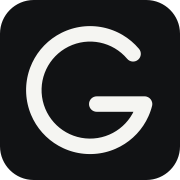
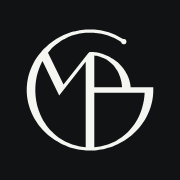
feat(marca): monograma GBM Didone (iteração 29) no site inteiro
Favicon, ícone do iPhone, topo, hero, rodapé, 404, imagem de
compartilhamento e logos em assets/logo passam a usar a marca final:
um contorno preenchido sobre o esqueleto Fibonacci (anel 233, bojo 144,
pesos 34/21/13). No hero, a pena traça o esqueleto (G, M, B) e a tinta
da marca cobre o traço. A fonte da marca e os arquivos da prensa de
couro (espelhado, PDFs de 100 mm, PNGs de 16 a 2048) ficam em
marca/oficial; as versões antigas saem do repositório.

diff --git a/index.html b/index.html
@@ -10,6 +10,7 @@
 <meta name="theme-color" content="#0e0f11" media="(prefers-color-scheme: dark)">
 <link rel="canonical" href="https://gbmtec.com.br/">
 <link rel="icon" href="favicon.svg" type="image/svg+xml">
+<link rel="apple-touch-icon" href="apple-touch-icon.png">
 
 <meta property="og:type" content="website">
 <meta property="og:locale" content="pt_BR">
@@ -42,11 +43,7 @@
 <body>
 
 <svg width="0" height="0" style="position:absolute" aria-hidden="true" focusable="false">
-  <symbol id="gbm" viewBox="-4 -4 212.96 108">
-    <path d="M89.4 19.22A50 50 0 1 0 98.4 62.56L56 62.56"/>
-    <path d="M98.4 28L98.4 100M98.4 28H115.68A17.28 17.28 0 0 1 115.68 62.56H98.4M98.4 62.56H114.24A18.72 18.72 0 0 1 114.24 100H98.4"/>
-    <path d="M143.04 100L143.04 28L174 82.72L204.96 28L204.96 100"/>
-  </symbol>
+  <symbol id="gbm" viewBox="0 0 512 512"><path d="M506 245.5L506 256C506 261.78 505.77 267.56 505.32 273.31C504.87 279.07 504.2 284.81 503.3 290.51C502.41 296.21 501.29 301.88 499.96 307.49C498.63 313.1 497.09 318.65 495.33 324.13C493.58 329.61 491.62 335.02 489.47 340.34C487.31 345.66 484.96 350.89 482.43 356.03C479.89 361.16 477.17 366.19 474.27 371.11C471.38 376.03 468.31 380.84 465.08 385.53C461.85 390.21 458.46 394.78 454.92 399.21C451.39 403.65 447.7 407.95 443.88 412.11C440.06 416.28 436.11 420.31 432.03 424.2C427.95 428.08 423.75 431.83 419.44 435.42C415.13 439.02 410.71 442.47 406.19 445.77C401.67 449.07 397.04 452.21 392.33 455.21C387.62 458.2 382.82 461.04 377.94 463.72C373.05 466.4 368.09 468.92 363.06 471.28C358.03 473.63 352.92 475.83 347.76 477.86C342.59 479.89 337.37 481.75 332.09 483.45C326.81 485.14 321.48 486.66 316.11 488.01C310.73 489.35 305.32 490.52 299.87 491.51C294.42 492.5 288.95 493.31 283.45 493.94C277.95 494.56 272.42 495 266.9 495.25C261.37 495.5 255.83 495.56 250.29 495.43C244.76 495.3 239.23 494.98 233.72 494.47C228.21 493.96 222.71 493.27 217.25 492.39C211.78 491.51 206.34 490.45 200.95 489.22C195.55 487.98 190.19 486.57 184.88 484.98C179.57 483.4 174.31 481.64 169.11 479.72C163.9 477.79 158.76 475.7 153.68 473.44C148.61 471.18 143.6 468.76 138.67 466.18C133.74 463.6 128.88 460.87 124.12 457.97C119.35 455.07 114.67 452.02 110.08 448.82C105.5 445.62 101.01 442.26 96.63 438.76C92.26 435.25 87.98 431.6 83.83 427.8C79.68 424 75.64 420.06 71.74 415.98C67.84 411.9 64.07 407.69 60.44 403.33C56.81 398.98 53.33 394.5 50 389.89C46.67 385.28 43.5 380.55 40.5 375.7C37.49 370.85 34.66 365.88 32.01 360.81C29.36 355.75 26.89 350.57 24.61 345.31C22.33 340.04 20.25 334.68 18.37 329.25C16.49 323.82 14.81 318.3 13.35 312.73C11.89 307.16 10.63 301.53 9.6 295.85C8.57 290.18 7.75 284.46 7.16 278.71C6.57 272.97 6.21 267.2 6.07 261.42C5.93 255.64 6.01 249.86 6.32 244.09C6.63 238.33 7.16 232.57 7.92 226.85C8.68 221.12 9.66 215.43 10.85 209.79C12.05 204.15 13.46 198.56 15.08 193.03C16.71 187.51 18.54 182.05 20.57 176.68C22.6 171.3 24.83 166.01 27.25 160.82C29.67 155.62 32.28 150.52 35.06 145.54C37.85 140.55 40.81 135.67 43.94 130.9C47.07 126.14 50.36 121.5 53.8 116.99C57.25 112.47 60.84 108.09 64.57 103.83C68.31 99.58 72.18 95.47 76.18 91.49C80.18 87.52 84.31 83.68 88.55 79.99C92.79 76.31 97.14 72.76 101.6 69.37C106.06 65.98 110.62 62.73 115.27 59.65C119.93 56.56 124.68 53.62 129.51 50.84C134.34 48.07 139.25 45.44 144.24 42.99C149.23 40.53 154.29 38.23 159.41 36.09C164.54 33.96 169.73 31.99 174.97 30.19C180.22 28.39 185.52 26.76 190.86 25.31C196.21 23.85 201.6 22.57 207.03 21.47C212.45 20.37 217.91 19.44 223.4 18.7C228.89 17.96 234.4 17.41 239.92 17.04C245.44 16.67 250.98 16.49 256.51 16.5C262.05 16.51 267.58 16.72 273.1 17.11C278.62 17.51 284.13 18.09 289.61 18.87C295.09 19.65 300.54 20.61 305.96 21.77C311.37 22.92 316.74 24.26 322.06 25.79C327.38 27.32 332.65 29.03 337.85 30.92C343.05 32.81 348.19 34.89 353.25 37.13C358.31 39.38 363.29 41.8 368.18 44.4C373.07 46.99 377.87 49.75 382.57 52.67C383.26 53.11 383.99 53.47 384.76 53.77C385.52 54.06 386.31 54.28 387.11 54.43C387.92 54.58 388.73 54.65 389.55 54.64C391.23 54.62 392.92 55.02 394.41 55.78C395.91 56.55 397.22 57.68 398.2 59.05C399.17 60.42 399.81 62.03 400.04 63.69C400.27 65.36 400.1 67.08 399.53 68.66C398.97 70.25 398.02 71.69 396.78 72.84C395.55 73.98 394.04 74.82 392.42 75.26C390.8 75.71 389.07 75.76 387.42 75.4C385.78 75.04 384.22 74.29 382.93 73.21C381.64 72.14 380.61 70.75 379.96 69.19C379.61 68.36 379.18 67.57 378.67 66.83C378.16 66.09 377.57 65.41 376.92 64.79C376.27 64.17 375.55 63.62 374.79 63.15C370.3 60.38 365.71 57.78 361.04 55.33C356.37 52.89 351.62 50.61 346.79 48.49C341.96 46.38 337.06 44.44 332.1 42.67C327.13 40.89 322.11 39.3 317.03 37.88C311.95 36.46 306.83 35.21 301.67 34.15C296.51 33.09 291.31 32.21 286.08 31.51C280.86 30.81 275.61 30.29 270.35 29.96C265.09 29.62 259.82 29.47 254.55 29.5C249.28 29.54 244.01 29.76 238.75 30.16C233.5 30.57 228.26 31.16 223.05 31.94C217.84 32.72 212.65 33.7 207.51 34.86C202.37 36.02 197.28 37.37 192.24 38.9C187.21 40.44 182.23 42.17 177.33 44.07C172.43 45.98 167.6 48.07 162.86 50.35C158.12 52.62 153.47 55.07 148.93 57.69C144.38 60.31 139.94 63.1 135.61 66.05C131.29 69 127.08 72.11 123 75.37C118.92 78.63 114.97 82.05 111.15 85.59C107.34 89.14 103.67 92.83 100.14 96.64C96.61 100.45 93.22 104.38 89.99 108.43L151.31 234.64L248.91 110.5C249.53 109.71 250.24 108.99 251.03 108.37C251.82 107.74 252.67 107.21 253.58 106.78C254.49 106.35 255.45 106.03 256.43 105.82C257.41 105.61 258.42 105.52 259.43 105.54C262.81 105.62 266.18 105.8 269.55 106.1C272.92 106.4 276.28 106.81 279.62 107.32C282.96 107.84 286.29 108.46 289.6 109.18C292.9 109.9 296.19 110.72 299.45 111.65C302.71 112.57 305.94 113.59 309.14 114.71C312.35 115.82 315.52 117.04 318.66 118.34C321.8 119.65 324.9 121.05 327.97 122.54C331.03 124.04 334.06 125.62 337.04 127.3C340.02 128.98 342.96 130.74 345.85 132.6C348.74 134.46 351.58 136.41 354.36 138.45C357.14 140.49 359.87 142.61 362.54 144.83C365.21 147.05 367.81 149.35 370.35 151.75C372.88 154.14 375.34 156.62 377.73 159.19C380.12 161.76 382.42 164.41 384.64 167.14C386.86 169.88 389 172.7 391.03 175.59C393.07 178.49 395.01 181.47 396.84 184.51C398.68 187.56 400.4 190.69 402.01 193.87C403.63 197.06 405.12 200.32 406.49 203.63C407.87 206.94 409.12 210.31 410.23 213.73C411.35 217.15 412.34 220.62 413.18 224.12C414.03 227.63 414.74 231.17 415.31 234.74C415.88 238.3 416.31 241.9 416.59 245.5ZM68.23 141.43C65.86 145.83 63.64 150.31 61.57 154.84C59.51 159.38 57.59 163.97 55.83 168.61C54.06 173.25 52.45 177.94 50.99 182.67C49.52 187.4 48.21 192.16 47.04 196.95C45.87 201.75 44.85 206.57 43.98 211.41C43.1 216.26 42.37 221.12 41.79 226C41.2 230.87 40.76 235.77 40.47 240.66C40.17 245.56 40.01 250.46 40 255.37C39.99 260.27 40.12 265.18 40.39 270.08C40.67 274.98 41.08 279.87 41.64 284.75C42.2 289.63 42.91 294.49 43.76 299.34C44.61 304.19 45.6 309.01 46.74 313.81C47.88 318.61 49.17 323.38 50.61 328.11C52.05 332.85 53.64 337.54 55.38 342.19C57.11 346.84 59 351.45 61.04 355.99C63.08 360.54 65.28 365.02 67.62 369.44C69.96 373.86 72.46 378.2 75.1 382.47C77.75 386.73 80.55 390.92 83.49 395C86.44 399.09 89.53 403.08 92.76 406.97C96 410.85 99.38 414.63 102.9 418.28C106.41 421.94 110.07 425.47 113.85 428.87C117.63 432.27 121.55 435.54 125.58 438.66C129.61 441.78 133.77 444.76 138.03 447.58C142.29 450.4 146.66 453.06 151.13 455.57C155.6 458.07 160.16 460.41 164.81 462.58C169.46 464.74 174.19 466.74 178.99 468.56C183.79 470.39 188.66 472.03 193.58 473.5C198.5 474.97 203.48 476.26 208.5 477.36C213.52 478.47 218.58 479.4 223.67 480.15C228.76 480.9 233.87 481.47 239 481.86L239 144.14L134.27 277.36ZM273 266.5L273 481.86C278.19 481.46 283.36 480.89 288.51 480.12C293.65 479.36 298.77 478.42 303.85 477.29C308.92 476.16 313.96 474.84 318.93 473.35C323.91 471.85 328.83 470.17 333.68 468.31C338.53 466.45 343.31 464.41 348 462.2C352.69 459.98 357.3 457.6 361.8 455.04C366.31 452.49 370.71 449.77 375.01 446.89C379.3 444.01 383.48 440.97 387.54 437.79C391.6 434.6 395.53 431.27 399.33 427.8C403.13 424.34 406.8 420.73 410.32 417.01C413.85 413.28 417.23 409.43 420.47 405.48C423.7 401.52 426.79 397.45 429.73 393.29C432.66 389.13 435.45 384.87 438.08 380.54C440.71 376.2 443.19 371.77 445.51 367.28C447.83 362.79 450 358.23 452.01 353.62C454.02 349 455.87 344.32 457.58 339.6C459.28 334.88 460.82 330.12 462.22 325.31C463.62 320.51 464.86 315.67 465.95 310.81C467.05 305.94 467.99 301.05 468.78 296.14C469.58 291.23 470.22 286.29 470.72 281.35C471.22 276.41 471.58 271.46 471.78 266.5ZM273 119.57L273 245.5L382.67 245.5C382.49 242.62 382.24 239.73 381.91 236.85C381.58 233.98 381.17 231.1 380.68 228.23C380.19 225.37 379.63 222.51 378.98 219.66C378.33 216.81 377.61 213.97 376.79 211.15C375.98 208.33 375.08 205.52 374.09 202.73C373.1 199.95 372.03 197.19 370.86 194.45C369.69 191.71 368.43 189.01 367.08 186.34C365.73 183.67 364.28 181.03 362.74 178.44C361.2 175.86 359.56 173.31 357.84 170.82C356.11 168.33 354.28 165.9 352.37 163.53C350.45 161.16 348.44 158.86 346.34 156.62C344.25 154.39 342.06 152.24 339.79 150.16C337.51 148.09 335.16 146.09 332.72 144.19C330.29 142.29 327.77 140.49 325.19 138.78C322.61 137.06 319.95 135.45 317.23 133.95C314.52 132.44 311.74 131.04 308.9 129.74C306.07 128.45 303.19 127.26 300.26 126.19C297.33 125.12 294.36 124.16 291.35 123.31C288.35 122.46 285.31 121.73 282.25 121.1C279.19 120.48 276.1 119.97 273 119.57Z"/></symbol>
   <symbol id="seta" viewBox="0 0 16 16"><path d="M4 12L12 4M5.5 4H12V10.5"/></symbol>
   <symbol id="baixo" viewBox="0 0 16 16"><path d="M8 2.5V13M3.5 8.5L8 13L12.5 8.5"/></symbol>
 </svg>
@@ -81,10 +78,13 @@
           <a class="cel" href="#no-ar">Ver o que está no ar<svg class="ico" aria-hidden="true"><use href="#baixo"/></svg></a>
         </div>
       </div>
-      <svg class="hero__marca" viewBox="-4 -4 212.96 108" aria-hidden="true" focusable="false">
-      <path pathLength="1" d="M89.4 19.22A50 50 0 1 0 98.4 62.56L56 62.56"/>
-      <path pathLength="1" d="M98.4 28L98.4 100M98.4 28H115.68A17.28 17.28 0 0 1 115.68 62.56H98.4M98.4 62.56H114.24A18.72 18.72 0 0 1 114.24 100H98.4"/>
-      <path pathLength="1" d="M143.04 100L143.04 28L174 82.72L204.96 28L204.96 100"/>
+      <svg class="hero__marca" viewBox="0 0 512 512" aria-hidden="true" focusable="false">
+        <g class="hero__traco">
+          <path pathLength="1" d="M389.64 65.14A233 233 0 1 0 489 256H256"/>
+          <path pathLength="1" d="M72.83 112L142.79 256L256 112V489"/>
+          <path pathLength="1" d="M256 112A144 144 0 0 1 400 256"/>
+        </g>
+        <use class="hero__tinta" href="#gbm"/>
       </svg>
     </div>
   </section>

diff --git a/404.html b/404.html
@@ -10,7 +10,7 @@
 :root{--fundo:#f5f5f2;--tinta:#111214}
 @media (prefers-color-scheme:dark){:root{--fundo:#0e0f11;--tinta:#f2f2ee}}
 body{margin:0;min-height:100svh;display:grid;place-content:center;gap:20px;padding:24px;background:var(--fundo);color:var(--tinta);font:400 1.05rem/1.6 "Hanken Grotesk",system-ui,sans-serif;text-align:center}
-svg{width:140px;height:auto;margin:0 auto;fill:none;stroke:currentColor;stroke-width:3.4;stroke-linecap:round;stroke-linejoin:round}
+svg{width:120px;height:120px;margin:0 auto;fill:currentColor}
 h1{margin:0;font:300 clamp(1.6rem,5vw,2.4rem)/1.1 "Josefin Sans","Century Gothic",system-ui,sans-serif;letter-spacing:.06em;text-transform:uppercase}
 a{display:inline-block;justify-self:center;padding:16px 26px;border:1px solid var(--tinta);color:inherit;font:500 .8rem/1 "Josefin Sans","Century Gothic",system-ui,sans-serif;letter-spacing:.18em;text-transform:uppercase;text-decoration:none}
 a:hover{background:var(--tinta);color:var(--fundo)}
@@ -18,7 +18,7 @@ a:focus-visible{outline:2px solid var(--tinta);outline-offset:3px}
 </style>
 </head>
 <body>
-<svg viewBox="-4 -4 212.96 108" aria-hidden="true"><path d="M89.4 19.22A50 50 0 1 0 98.4 62.56L56 62.56"/><path d="M98.4 28L98.4 100M98.4 28H115.68A17.28 17.28 0 0 1 115.68 62.56H98.4M98.4 62.56H114.24A18.72 18.72 0 0 1 114.24 100H98.4"/><path d="M143.04 100L143.04 28L174 82.72L204.96 28L204.96 100"/></svg>
+<svg viewBox="0 0 512 512" aria-hidden="true"><path d="M506 245.5L506 256C506 261.78 505.77 267.56 505.32 273.31C504.87 279.07 504.2 284.81 503.3 290.51C502.41 296.21 501.29 301.88 499.96 307.49C498.63 313.1 497.09 318.65 495.33 324.13C493.58 329.61 491.62 335.02 489.47 340.34C487.31 345.66 484.96 350.89 482.43 356.03C479.89 361.16 477.17 366.19 474.27 371.11C471.38 376.03 468.31 380.84 465.08 385.53C461.85 390.21 458.46 394.78 454.92 399.21C451.39 403.65 447.7 407.95 443.88 412.11C440.06 416.28 436.11 420.31 432.03 424.2C427.95 428.08 423.75 431.83 419.44 435.42C415.13 439.02 410.71 442.47 406.19 445.77C401.67 449.07 397.04 452.21 392.33 455.21C387.62 458.2 382.82 461.04 377.94 463.72C373.05 466.4 368.09 468.92 363.06 471.28C358.03 473.63 352.92 475.83 347.76 477.86C342.59 479.89 337.37 481.75 332.09 483.45C326.81 485.14 321.48 486.66 316.11 488.01C310.73 489.35 305.32 490.52 299.87 491.51C294.42 492.5 288.95 493.31 283.45 493.94C277.95 494.56 272.42 495 266.9 495.25C261.37 495.5 255.83 495.56 250.29 495.43C244.76 495.3 239.23 494.98 233.72 494.47C228.21 493.96 222.71 493.27 217.25 492.39C211.78 491.51 206.34 490.45 200.95 489.22C195.55 487.98 190.19 486.57 184.88 484.98C179.57 483.4 174.31 481.64 169.11 479.72C163.9 477.79 158.76 475.7 153.68 473.44C148.61 471.18 143.6 468.76 138.67 466.18C133.74 463.6 128.88 460.87 124.12 457.97C119.35 455.07 114.67 452.02 110.08 448.82C105.5 445.62 101.01 442.26 96.63 438.76C92.26 435.25 87.98 431.6 83.83 427.8C79.68 424 75.64 420.06 71.74 415.98C67.84 411.9 64.07 407.69 60.44 403.33C56.81 398.98 53.33 394.5 50 389.89C46.67 385.28 43.5 380.55 40.5 375.7C37.49 370.85 34.66 365.88 32.01 360.81C29.36 355.75 26.89 350.57 24.61 345.31C22.33 340.04 20.25 334.68 18.37 329.25C16.49 323.82 14.81 318.3 13.35 312.73C11.89 307.16 10.63 301.53 9.6 295.85C8.57 290.18 7.75 284.46 7.16 278.71C6.57 272.97 6.21 267.2 6.07 261.42C5.93 255.64 6.01 249.86 6.32 244.09C6.63 238.33 7.16 232.57 7.92 226.85C8.68 221.12 9.66 215.43 10.85 209.79C12.05 204.15 13.46 198.56 15.08 193.03C16.71 187.51 18.54 182.05 20.57 176.68C22.6 171.3 24.83 166.01 27.25 160.82C29.67 155.62 32.28 150.52 35.06 145.54C37.85 140.55 40.81 135.67 43.94 130.9C47.07 126.14 50.36 121.5 53.8 116.99C57.25 112.47 60.84 108.09 64.57 103.83C68.31 99.58 72.18 95.47 76.18 91.49C80.18 87.52 84.31 83.68 88.55 79.99C92.79 76.31 97.14 72.76 101.6 69.37C106.06 65.98 110.62 62.73 115.27 59.65C119.93 56.56 124.68 53.62 129.51 50.84C134.34 48.07 139.25 45.44 144.24 42.99C149.23 40.53 154.29 38.23 159.41 36.09C164.54 33.96 169.73 31.99 174.97 30.19C180.22 28.39 185.52 26.76 190.86 25.31C196.21 23.85 201.6 22.57 207.03 21.47C212.45 20.37 217.91 19.44 223.4 18.7C228.89 17.96 234.4 17.41 239.92 17.04C245.44 16.67 250.98 16.49 256.51 16.5C262.05 16.51 267.58 16.72 273.1 17.11C278.62 17.51 284.13 18.09 289.61 18.87C295.09 19.65 300.54 20.61 305.96 21.77C311.37 22.92 316.74 24.26 322.06 25.79C327.38 27.32 332.65 29.03 337.85 30.92C343.05 32.81 348.19 34.89 353.25 37.13C358.31 39.38 363.29 41.8 368.18 44.4C373.07 46.99 377.87 49.75 382.57 52.67C383.26 53.11 383.99 53.47 384.76 53.77C385.52 54.06 386.31 54.28 387.11 54.43C387.92 54.58 388.73 54.65 389.55 54.64C391.23 54.62 392.92 55.02 394.41 55.78C395.91 56.55 397.22 57.68 398.2 59.05C399.17 60.42 399.81 62.03 400.04 63.69C400.27 65.36 400.1 67.08 399.53 68.66C398.97 70.25 398.02 71.69 396.78 72.84C395.55 73.98 394.04 74.82 392.42 75.26C390.8 75.71 389.07 75.76 387.42 75.4C385.78 75.04 384.22 74.29 382.93 73.21C381.64 72.14 380.61 70.75 379.96 69.19C379.61 68.36 379.18 67.57 378.67 66.83C378.16 66.09 377.57 65.41 376.92 64.79C376.27 64.17 375.55 63.62 374.79 63.15C370.3 60.38 365.71 57.78 361.04 55.33C356.37 52.89 351.62 50.61 346.79 48.49C341.96 46.38 337.06 44.44 332.1 42.67C327.13 40.89 322.11 39.3 317.03 37.88C311.95 36.46 306.83 35.21 301.67 34.15C296.51 33.09 291.31 32.21 286.08 31.51C280.86 30.81 275.61 30.29 270.35 29.96C265.09 29.62 259.82 29.47 254.55 29.5C249.28 29.54 244.01 29.76 238.75 30.16C233.5 30.57 228.26 31.16 223.05 31.94C217.84 32.72 212.65 33.7 207.51 34.86C202.37 36.02 197.28 37.37 192.24 38.9C187.21 40.44 182.23 42.17 177.33 44.07C172.43 45.98 167.6 48.07 162.86 50.35C158.12 52.62 153.47 55.07 148.93 57.69C144.38 60.31 139.94 63.1 135.61 66.05C131.29 69 127.08 72.11 123 75.37C118.92 78.63 114.97 82.05 111.15 85.59C107.34 89.14 103.67 92.83 100.14 96.64C96.61 100.45 93.22 104.38 89.99 108.43L151.31 234.64L248.91 110.5C249.53 109.71 250.24 108.99 251.03 108.37C251.82 107.74 252.67 107.21 253.58 106.78C254.49 106.35 255.45 106.03 256.43 105.82C257.41 105.61 258.42 105.52 259.43 105.54C262.81 105.62 266.18 105.8 269.55 106.1C272.92 106.4 276.28 106.81 279.62 107.32C282.96 107.84 286.29 108.46 289.6 109.18C292.9 109.9 296.19 110.72 299.45 111.65C302.71 112.57 305.94 113.59 309.14 114.71C312.35 115.82 315.52 117.04 318.66 118.34C321.8 119.65 324.9 121.05 327.97 122.54C331.03 124.04 334.06 125.62 337.04 127.3C340.02 128.98 342.96 130.74 345.85 132.6C348.74 134.46 351.58 136.41 354.36 138.45C357.14 140.49 359.87 142.61 362.54 144.83C365.21 147.05 367.81 149.35 370.35 151.75C372.88 154.14 375.34 156.62 377.73 159.19C380.12 161.76 382.42 164.41 384.64 167.14C386.86 169.88 389 172.7 391.03 175.59C393.07 178.49 395.01 181.47 396.84 184.51C398.68 187.56 400.4 190.69 402.01 193.87C403.63 197.06 405.12 200.32 406.49 203.63C407.87 206.94 409.12 210.31 410.23 213.73C411.35 217.15 412.34 220.62 413.18 224.12C414.03 227.63 414.74 231.17 415.31 234.74C415.88 238.3 416.31 241.9 416.59 245.5ZM68.23 141.43C65.86 145.83 63.64 150.31 61.57 154.84C59.51 159.38 57.59 163.97 55.83 168.61C54.06 173.25 52.45 177.94 50.99 182.67C49.52 187.4 48.21 192.16 47.04 196.95C45.87 201.75 44.85 206.57 43.98 211.41C43.1 216.26 42.37 221.12 41.79 226C41.2 230.87 40.76 235.77 40.47 240.66C40.17 245.56 40.01 250.46 40 255.37C39.99 260.27 40.12 265.18 40.39 270.08C40.67 274.98 41.08 279.87 41.64 284.75C42.2 289.63 42.91 294.49 43.76 299.34C44.61 304.19 45.6 309.01 46.74 313.81C47.88 318.61 49.17 323.38 50.61 328.11C52.05 332.85 53.64 337.54 55.38 342.19C57.11 346.84 59 351.45 61.04 355.99C63.08 360.54 65.28 365.02 67.62 369.44C69.96 373.86 72.46 378.2 75.1 382.47C77.75 386.73 80.55 390.92 83.49 395C86.44 399.09 89.53 403.08 92.76 406.97C96 410.85 99.38 414.63 102.9 418.28C106.41 421.94 110.07 425.47 113.85 428.87C117.63 432.27 121.55 435.54 125.58 438.66C129.61 441.78 133.77 444.76 138.03 447.58C142.29 450.4 146.66 453.06 151.13 455.57C155.6 458.07 160.16 460.41 164.81 462.58C169.46 464.74 174.19 466.74 178.99 468.56C183.79 470.39 188.66 472.03 193.58 473.5C198.5 474.97 203.48 476.26 208.5 477.36C213.52 478.47 218.58 479.4 223.67 480.15C228.76 480.9 233.87 481.47 239 481.86L239 144.14L134.27 277.36ZM273 266.5L273 481.86C278.19 481.46 283.36 480.89 288.51 480.12C293.65 479.36 298.77 478.42 303.85 477.29C308.92 476.16 313.96 474.84 318.93 473.35C323.91 471.85 328.83 470.17 333.68 468.31C338.53 466.45 343.31 464.41 348 462.2C352.69 459.98 357.3 457.6 361.8 455.04C366.31 452.49 370.71 449.77 375.01 446.89C379.3 444.01 383.48 440.97 387.54 437.79C391.6 434.6 395.53 431.27 399.33 427.8C403.13 424.34 406.8 420.73 410.32 417.01C413.85 413.28 417.23 409.43 420.47 405.48C423.7 401.52 426.79 397.45 429.73 393.29C432.66 389.13 435.45 384.87 438.08 380.54C440.71 376.2 443.19 371.77 445.51 367.28C447.83 362.79 450 358.23 452.01 353.62C454.02 349 455.87 344.32 457.58 339.6C459.28 334.88 460.82 330.12 462.22 325.31C463.62 320.51 464.86 315.67 465.95 310.81C467.05 305.94 467.99 301.05 468.78 296.14C469.58 291.23 470.22 286.29 470.72 281.35C471.22 276.41 471.58 271.46 471.78 266.5ZM273 119.57L273 245.5L382.67 245.5C382.49 242.62 382.24 239.73 381.91 236.85C381.58 233.98 381.17 231.1 380.68 228.23C380.19 225.37 379.63 222.51 378.98 219.66C378.33 216.81 377.61 213.97 376.79 211.15C375.98 208.33 375.08 205.52 374.09 202.73C373.1 199.95 372.03 197.19 370.86 194.45C369.69 191.71 368.43 189.01 367.08 186.34C365.73 183.67 364.28 181.03 362.74 178.44C361.2 175.86 359.56 173.31 357.84 170.82C356.11 168.33 354.28 165.9 352.37 163.53C350.45 161.16 348.44 158.86 346.34 156.62C344.25 154.39 342.06 152.24 339.79 150.16C337.51 148.09 335.16 146.09 332.72 144.19C330.29 142.29 327.77 140.49 325.19 138.78C322.61 137.06 319.95 135.45 317.23 133.95C314.52 132.44 311.74 131.04 308.9 129.74C306.07 128.45 303.19 127.26 300.26 126.19C297.33 125.12 294.36 124.16 291.35 123.31C288.35 122.46 285.31 121.73 282.25 121.1C279.19 120.48 276.1 119.97 273 119.57Z"/></svg>
 <h1>Essa página não está no ar.</h1>
 <p>O endereço pode ter mudado ou nunca ter existido.</p>
 <a href="/">Voltar ao início</a>

diff --git a/assets/css/site.css b/assets/css/site.css
@@ -61,7 +61,7 @@ ul,ol{padding:0;list-style:none}
 .cel--cheia{background:var(--tinta);color:var(--fundo)}
 .cel--cheia:hover{background:var(--fundo);color:var(--tinta)}
 .ico{width:14px;height:14px;fill:none;stroke:currentColor;stroke-width:1.5;stroke-linecap:square;flex:none}
-.marca{width:71px;height:36px;fill:none;stroke:currentColor;stroke-width:4.2;stroke-linecap:round;stroke-linejoin:round;stroke-miterlimit:3}
+.marca{width:40px;height:40px;fill:currentColor}
 
 /* Topo */
 .topo{position:sticky;top:0;z-index:20;background:var(--fundo);border-bottom:1px solid var(--tinta)}
@@ -78,7 +78,8 @@ ul,ol{padding:0;list-style:none}
 .hero{position:relative;overflow:hidden;padding:clamp(28px,4.5vh,56px) 0 clamp(28px,4vh,48px)}
 .hero__grade{position:relative;max-width:calc(var(--max) + var(--gut)*2);margin:0 auto;padding:0 var(--gut)}
 .hero__texto{position:relative;z-index:1}
-.hero__marca{width:min(64vw,300px);height:auto;margin-top:clamp(28px,5vw,40px);fill:none;stroke:var(--tinta);stroke-width:.8;stroke-linecap:butt;stroke-linejoin:round}
+.hero__marca{display:block;width:min(34vw,200px);height:auto;margin-top:clamp(28px,5vw,40px);fill:var(--tinta)}
+.hero__traco{display:none;fill:none;stroke:var(--tinta);stroke-width:13;stroke-linecap:round;stroke-linejoin:round}
 h1{
   max-width:11em;font:300 clamp(2.5rem,8.6vw,6rem)/1.03 var(--f-titulo);
   letter-spacing:.03em;text-transform:uppercase;text-wrap:balance;
@@ -88,7 +89,7 @@ h1{
 @media (min-width:1100px){
   .hero__grade{display:grid;grid-template-columns:minmax(0,1fr) min(32vw,440px);gap:56px;align-items:center}
   h1{font-size:clamp(3rem,4.8vw,4.5rem)}
-  .hero__marca{width:100%;margin-top:0;stroke-width:.7}
+  .hero__marca{width:min(100%,360px);margin:0 auto}
 }
 
 /* Janelas: furos na parede, cada um dá para um projeto no ar, com passe-partout */
@@ -223,7 +224,7 @@ h2{font:300 clamp(1.8rem,3.6vw,2.9rem)/1.08 var(--f-titulo);letter-spacing:.06em
 /* Rodapé como carimbo de prancha */
 .rodape{border-top:1px solid var(--tinta)}
 .rodape__grade{max-width:calc(var(--max) + var(--gut)*2);margin:0 auto;padding:clamp(40px,6vw,72px) var(--gut);display:grid;gap:36px;align-items:end}
-.rodape__marca{width:min(260px,70%);height:auto;aspect-ratio:212.96/108;stroke-width:3}
+.rodape__marca{width:min(180px,50%);height:auto;aspect-ratio:1}
 @media (min-width:900px){.rodape__grade{grid-template-columns:1fr 1.5fr}}
 .carimbo{border:1px solid var(--tinta);background:var(--papel)}
 .carimbo h2{padding:14px 18px;border-bottom:1px solid var(--tinta);font:600 .78rem/1.2 var(--f-titulo);letter-spacing:.22em}
@@ -233,12 +234,16 @@ h2{font:300 clamp(1.8rem,3.6vw,2.9rem)/1.08 var(--f-titulo);letter-spacing:.06em
 @media (min-width:640px){.carimbo dl > div{grid-template-columns:150px 1fr;align-items:baseline}}
 .rodape__fim{max-width:calc(var(--max) + var(--gut)*2);margin:0 auto;padding:0 var(--gut) 32px;font-size:.9rem;color:var(--suave)}
 
-/* Animação: traço da régua, uma vez */
-@keyframes tracar{from{stroke-dashoffset:1}to{stroke-dashoffset:0}}
+/* Animação, uma vez: a pena traça o esqueleto (G, M, B) e a tinta da marca cobre o traço */
+@keyframes tracar{from{stroke-dashoffset:1.05}to{stroke-dashoffset:0}}
+@keyframes tinta{from{opacity:0}to{opacity:1}}
+@keyframes sumir{to{opacity:0}}
 @media (prefers-reduced-motion:no-preference){
-  .hero__marca path{stroke-dasharray:1 1.02;animation:tracar 2.8s var(--ease) both}
-  .hero__marca path:nth-child(2){animation-delay:.4s}
-  .hero__marca path:nth-child(3){animation-delay:.8s}
+  .hero__traco{display:inline;animation:sumir .4s 3.2s both}
+  .hero__traco path{stroke-dasharray:1 1.1;animation:tracar 2.4s var(--ease) both}
+  .hero__traco path:nth-child(2){animation-delay:.4s}
+  .hero__traco path:nth-child(3){animation-delay:.8s}
+  .hero__tinta{animation:tinta 1.2s 1.8s var(--ease) both}
 }
 @media (prefers-reduced-motion:reduce){
   *,*::before,*::after{transition-duration:.01ms!important;animation:none!important}

diff --git a/DESIGN.md b/DESIGN.md
@@ -113,7 +113,7 @@ The build rejects the dark neon developer portfolio and the white SaaS template 
 - Josefin Sans light uppercase, letterspaced, for headings and labels; Hanken Grotesk for reading.
 - Active state is always a solid black fill with a color flip, never a glow or a lift.
 - Depth by rules: 1px black gap lattices and double-ruled cartouches, no shadows.
-- Hairline monogram drawn once, with a ruler-line stroke animation.
+- Didone monogram drawn once: a 13-unit pen line traces the skeleton (G, M, B), then the ink of the mark fills over it.
 
 ## Colors
 
@@ -126,7 +126,7 @@ A restrained achromatic palette: warm gallery off-white, one lacquer black, and 
 - **Gallery White** (#f5f5f2): page ground, and the text color on filled cells.
 - **Paper White** (#ffffff): inset surfaces that sit one step above the wall (service cells, cartouche, channel cells, footer stamp, screenshot mat).
 - **Slate Gray** (#545a62): secondary text, labels, dd/notes, idle metadata.
-- **Hammered Silver** (#a4a9b0): the outline of double-ruled cartouches, the pierced-square row, the hero monogram line, scrollbar.
+- **Hammered Silver** (#a4a9b0): the outline of double-ruled cartouches, the pierced-square row, scrollbar.
 - **Hairline Gray** (#d3d5d8): quiet row dividers inside lists (product rows, timeline, stamp rows).
 - **Night Lacquer** (#0e0f11), **Night Paper** (#17181b), **Night Ink** (#f2f2ee), **Night Slate** (#a8adb5), **Night Silver** (#5e636b), **Night Hairline** (#2a2c30): the dark-scheme counterparts, swapped through `prefers-color-scheme: dark` on the same custom property names.
 
@@ -172,7 +172,7 @@ Square only: `border-radius: 0` on every cell, and 1px lacquer borders. Recurrin
 - **Double-ruled cartouche:** a 1px black border plus a 1px silver outline offset by 6px (with a 6px outer margin to leave room), used on services, the featured figure and the contact channels.
 - **Pierced square:** a hollow 8 to 11px square outline, as list markers, a status glyph (filled square = live, hollow = pre-launch), and a masked row of hollow squares (24 x 22px tile, silver) used as divider only at the two turns of the page.
 - **Window mat:** a screenshot sits in a 1px black frame inside a 14px mat in the wall color, 4:3, cropped left.
-- **Monogram:** a hairline line-drawn GBM mark, stroked once with a dash animation (2.8s, staggered).
+- **Monogram:** the GBM Didone mark (one filled path, 512 viewBox, Fibonacci weights 34/21/13 on a ring of radius 233; source in `marca/oficial/gbm.svg`), always solid in the ink color. In the hero the skeleton is traced once (2.4s, staggered 0.4s) and the filled mark fades in at 1.8s.
 
 ## Components
 
@@ -180,7 +180,7 @@ Square only: `border-radius: 0` on every cell, and 1px lacquer borders. Recurrin
 Square, 52px high, 0 26px padding, 1px lacquer border, Josefin label (0.8rem, 500, 0.18em, uppercase). Idle is transparent; hover fills Lacquer Black with Gallery White text (250ms, expo-out). The solid variant starts filled and inverts on hover. Icons are 14px square-capped line SVGs. Focus is a 2px lacquer outline at 3px offset.
 
 ### Navigation
-Sticky top bar on the wall color with a 1px lacquer bottom rule. A 96px monogram cell on the left (ruled both sides), link cells separated by 1px right rules, and a solid black "Contar projeto" cell on the right. Links hover to solid black. Below 860px: the Menu cell toggles a stacked list.
+Sticky top bar on the wall color with a 1px lacquer bottom rule. A 96px monogram cell on the left (40px mark) (ruled both sides), link cells separated by 1px right rules, and a solid black "Contar projeto" cell on the right. Links hover to solid black. Below 860px: the Menu cell toggles a stacked list.
 
 ### Project windows
 A lattice of square peepholes onto live products: screenshot in a ruled frame on a mat, with a caption cell (name in Josefin 600, descriptor in Slate Gray, arrow icon) under a 1px rule. Hover or focus fills the caption black and nudges the screenshot scale to 1.05 (1.1s).

diff --git a/.impeccable/surfaces/index-html.md b/.impeccable/surfaces/index-html.md
@@ -12,7 +12,7 @@ Mode: Persuade. Build path: code-led (no image generation on this machine; the a
 Audience and job: founders and product leads in Brazil, plus tech leads and recruiters who open the LinkedIn. In seconds they must know who Gabriel is, see what he already shipped, and reach him. Action: write to him with the project (form that composes an e-mail), second action: open a live product.
 Proof and content: four live products (Gabaritei, UpUai, Petalia, Estilia) as real screenshots, LinkedIn career 2012 to today, the one sourced number (Araujo app, R$ 20 mi/mês), company data (razão social, CNPJ).
 Constraints: pt-BR, no em dash as punctuation, static HTML/CSS/JS, hosted on UpUai (project diversos), light and dark, mobile first, company data and Organization JSON-LD kept.
-Memorable moment: the monogram is drawn once with a ruler line, then the first viewport shows the work itself through four square windows cut into the page.
+Memorable moment: the Didone monogram is drawn once by a pen line and then inked, then the first viewport shows the work itself through four square windows cut into the page.
 Unresolved: WhatsApp number, prices, testimonials (none confirmed, none invented).
 
 ## Direction contract
@@ -20,6 +20,6 @@ Unresolved: WhatsApp number, prices, testimonials (none confirmed, none invented
 THESIS: a showroom of strict square lattices where the only color in the room is the work Gabriel shipped. Refuses the dark neon developer portfolio and the white SaaS agency template with a headline over a row of cards.
 OWN-WORLD: gallery white ground ruled in lacquer black, hammered silver for hairlines and idle frames, letterspaced geometric capitals (Josefin Sans light) for headings and labels, a quiet grotesk for reading, every control a square cell that fills solid black when active, pierced-square rows as ornament, double-ruled cartouches around the work. Product screenshots are the only saturated color. Dark mode inverts to lacquer black with white rules.
 STORY: the visitor sees a monogram and one line, "software que vai pro ar", understands that four real products are live, believes a senior engineer who runs his own products can run theirs, and writes the project to him.
-FIRST VIEWPORT: nav as ruled square cells (monogram cell left, links, solid black "Contar projeto" cell right). Below it a headline in light caps over eight columns with the sub line and two cells (solid black CTA, outlined link). Behind it a giant silver hairline monogram being drawn. The bottom of the viewport is cut by four square windows across the full width, each a peephole onto a live product, so the work is the first thing the scroll reveals.
+FIRST VIEWPORT: nav as ruled square cells (monogram cell left, links, solid black "Contar projeto" cell right). Below it a headline in light caps over eight columns with the sub line and two cells (solid black CTA, outlined link). Beside it the solid Didone monogram, traced once by a pen line and then inked. The bottom of the viewport is cut by four square windows across the full width, each a peephole onto a live product, so the work is the first thing the scroll reveals.
 FORM: design-canon-hoffmann-gridsmith-showroom (challenger, won over the roll's lambe-lambe poster wall after the user's logo showed a thin, geometric, minimalist taste); seed key 155a99ff.
 FINISH: unreviewed and undocumented is unfinished; this build ends with the finish review, the verdict, DESIGN.md, and every shipping raster carrying its provenance

diff --git a/README.md b/README.md
@@ -3,7 +3,7 @@
 Site da GBM Tecnologia LTDA (gbmtec.com.br): landing page com projetos, currículo, serviços e contato do Gabriel Braga.
 
 - HTML, CSS e JS puros, sem build. Entrada: `index.html`; estilos em `assets/css`, script em `assets/js`, imagens em `assets/img`, logos em `assets/logo`.
-- `marca/` guarda as opções do logo (não é publicada). Contato: WhatsApp corporativo e gabriel@gbmtec.com.br (sem formulário).
+- `marca/oficial/` guarda o logo final (SVG escuro e claro, PNGs de 16 a 2048 px, versão espelhada e PDFs de 100 mm para a prensa de couro); não vai para a imagem publicada. Contato: WhatsApp corporativo e gabriel@gbmtec.com.br (sem formulário).
 - Hospedagem: UpUai Cloud, projeto `diversos`, serviço `gbmtec-site`. O `Dockerfile` copia só o que é público para um nginx (`nginx.conf.template`, porta vinda de `PORT`).
 - `google261a20c75eca65b7.html` é a verificação do Search Console: não remover.
 - `PRODUCT.md` e `.impeccable/` são documentos de trabalho de design e ficam fora da imagem.
